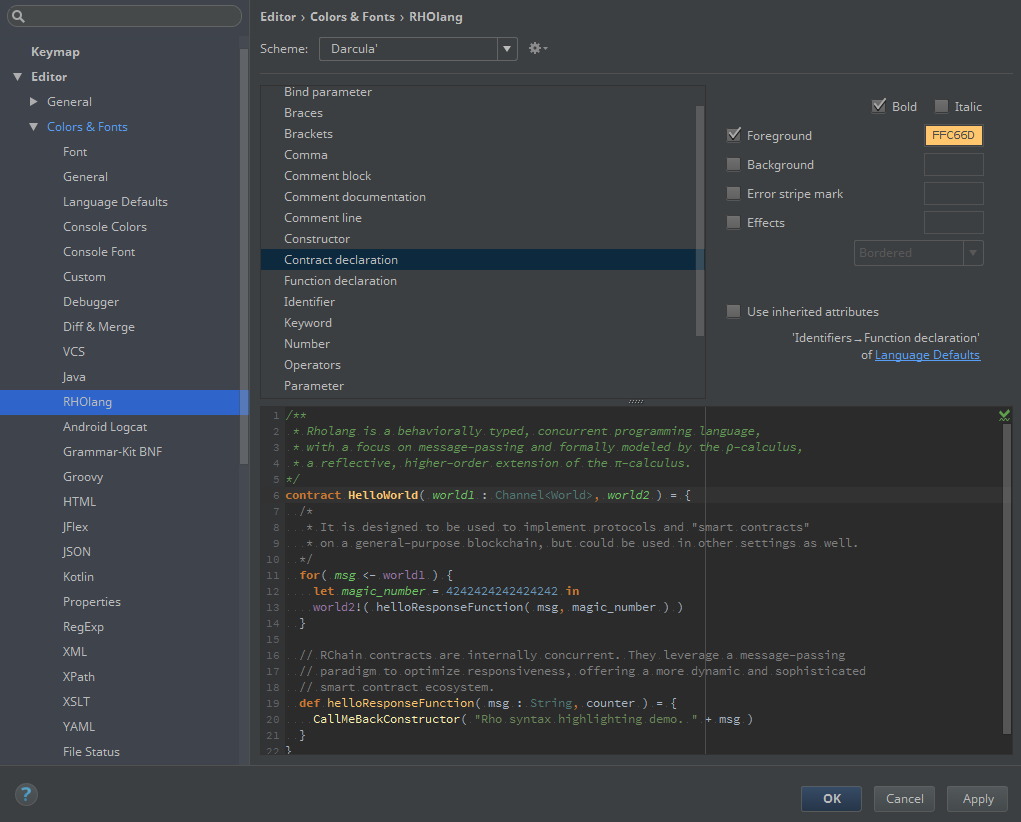
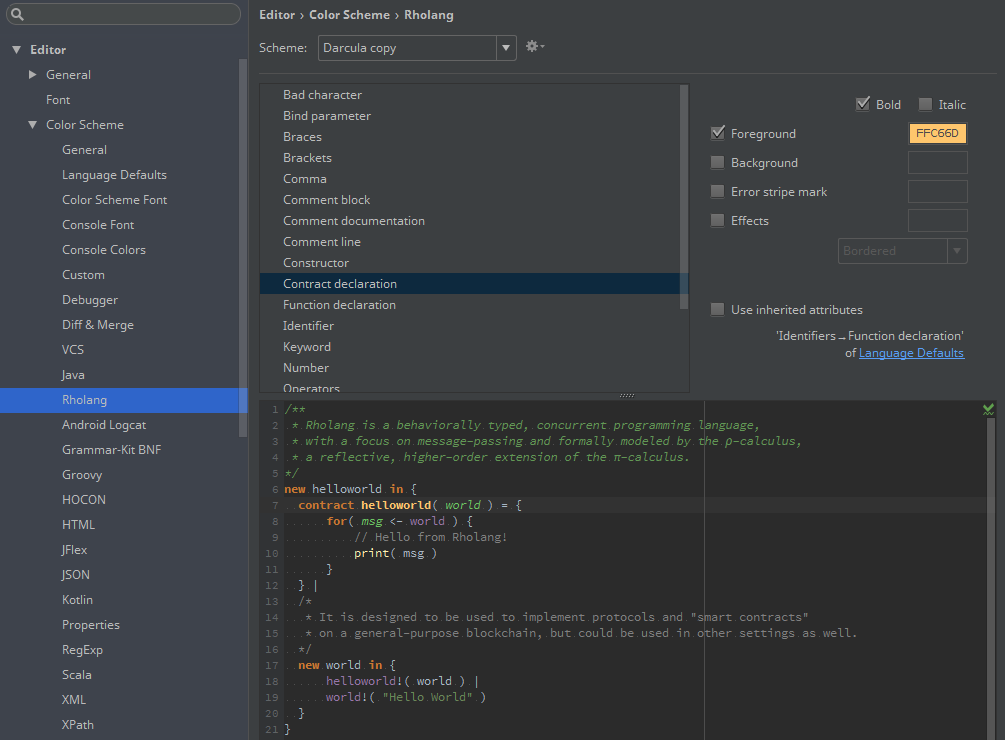
Version 0.0.3
Update ReadMe, new Rho icon, new setting demo template

diff --git a/src/coop/rchain/lang/RhoColorSettingsPage.kt b/src/coop/rchain/lang/RhoColorSettingsPage.kt
@@ -17,21 +17,20 @@ class RhoColorSettingsPage : ColorSettingsPage, InspectionColorSettingsPage, Dis
  * with a focus on message-passing and formally modeled by the ρ-calculus,
  * a reflective, higher-order extension of the π-calculus.
 */
-contract <CONTRACT>HelloWorld</CONTRACT>( <BIND_PARAMETER>world1</BIND_PARAMETER> : <TYPE_PARAMETER>Channel<World></TYPE_PARAMETER>, <BIND_PARAMETER>world2</BIND_PARAMETER> ) = {
+new helloworld in {
+  contract <CONTRACT>helloworld</CONTRACT>( <BIND_PARAMETER>world</BIND_PARAMETER> ) = {
+      for( <BIND_PARAMETER>msg</BIND_PARAMETER> <- <PARAMETER>world</PARAMETER> ) {
+          // Hello from Rholang!
+          <CONSTRUCTOR>print</CONSTRUCTOR>( msg )
+      }
+  } |
   /*
    * It is designed to be used to implement protocols and "smart contracts"
    * on a general-purpose blockchain, but could be used in other settings as well.
   */
-  for( <BIND_PARAMETER>msg</BIND_PARAMETER> <- <PARAMETER>world1</PARAMETER> ) {
-    let <BIND_PARAMETER>magic_number</BIND_PARAMETER> = 4242424242424242 in
-    <PARAMETER>world2</PARAMETER>!( helloResponseFunction( msg, magic_number ) )
-  }
-
-  // RChain contracts are internally concurrent. They leverage a message-passing
-  // paradigm to optimize responsiveness, offering a more dynamic and sophisticated
-  // smart contract ecosystem.
-  def <FUNCTION>helloResponseFunction</FUNCTION>( msg : <TYPE_PARAMETER>String</TYPE_PARAMETER>, counter ) = {
-    <CONSTRUCTOR>CallMeBackConstructor</CONSTRUCTOR>( "Rho syntax highlighting demo. " + msg )
+  new world in {
+      <PARAMETER>helloworld</PARAMETER>!( world ) |
+      <PARAMETER>world</PARAMETER>!( "Hello World" )
   }
 }
 """

diff --git a/src/coop/rchain/lang/RhoIcons.kt b/src/coop/rchain/lang/RhoIcons.kt
@@ -3,8 +3,7 @@ package coop.rchain.lang
 import com.intellij.openapi.util.IconLoader
 
 object RhoIcons {
-  val BLACK_EDITION = IconLoader.getIcon("/coop/rchain/lang/icons/rholang_black.png")
-  val RED_EDITION = IconLoader.getIcon("/coop/rchain/lang/icons/rholang_red.png")
+  val BLACK_EDITION = IconLoader.getIcon("/coop/rchain/lang/icons/rholang-black-16.png")
 
   val DEFAULT = BLACK_EDITION
 }

diff --git a/README.md b/README.md
@@ -1,16 +1,20 @@
-# [Rholang][rho-github] IntelliJ IDEA language plugin
+# Rholang IntelliJ IDEA language plugin
 
 ![beta][beta-badge]
 
 This is the early stage of editor support for [Rholang][rho-github]. :smile:
 
-Rholang is official language for [RChain][rchain-coop] distributed virtual machine. Is is currently in active development and syntax can slightly change. Current version of plugin follows this version of [Rho grammar][rho-bnf] and available examples.
+For now, it has only support for syntax highlighting. I tried to make parser more forgiving so it can highlight wider range of correct programs. With more context information from compiler it could be much more precise.
 
-I tried to make parser more forgiving so it can highlight wider range of correct programs. With more context information it could be much more precise. For now this will not recognize `*my_chan.ref[index]!(my_val)` although I'm not sure whether this is a valid syntax.
+> **Rholang** is a fully featured, general purpose, Turing-complete programming language built from the rho-calculus. It is a behaviorally typed, **r**-eflective, **h**-igher **o**-rder process language and the official smart contracting language of [RChain][rchain-coop]. Its purpose is to concretize fine-grained, programmatic concurrency. [RChain Architecture][arch-rholang]
 
-I found interesting that many grammar rules have a strong gravity towards `Proc`ess :cyclone: but that should not be strange for π-calculus, _λ-expression_ is not the main _actor_ here. Which reminds me that Rholang can be interesting to Erlang/Elixir programmers who knows how hard is to coordinate the names of processes. With _reflective higher-order_ super powers that comes with the compiler and type checker it will be pleasure to write smart contracts.
+Rholang is currently in active development and syntax can slightly change. Current version of plugin follows this version of [Rho grammar][rho-bnf-origin] and available examples.
 
-> The π-calculus is elegantly simple, it has very few terms and so is a very small language, yet is very expressive. Functional programs can be encoded into the π-calculus, and the encoding emphasises the dialogue nature of computation, drawing connections with game semantics. [Wikipedia][pi-wiki]
+I found interesting that many grammar rules have a strong gravity towards `Proc`ess :cyclone: but that should not be strange for π-calculus, _λ-expression_ is not the main _actor_ here. [Mobile process calculi for programming the new blockchain][tuplespaces-to-picalculus]
+
+Programmers in concurrent languages such as Erlang/Elixir say that one of the hardest problems is to coordinate the names (locations) of processes. It seems that Rholang with [Namespace logic][arch-namespace-logic] looks like a great solution for coordination of resources.
+
+With all this sweet superpowers, that comes with the Rholang compiler and type checker, it will be a pleasure to write smart contracts. :lollipop:
 
 ## Configure custom colors on the settings page
 
@@ -20,29 +24,34 @@ Only colors for _Constructor_ and _Bind parameter_ have no default values.
 
 ## Install
 
-From IntelliJ IDEA [plugins repository][rho-idea] searchable inside the editor.
+From [JetBrains Plugins Repository][rho-idea-plugin] searchable inside the editor.
 
-Or download **rholang-idea.jar** from the latest [release][releases] and install through [File > Settings > Plugins][idea-install-from-disk] menu.
+Or download **rholang-idea.jar** from the [latest release][releases] and install through [File > Settings > Plugins][idea-install-from-disk] menu.
 
 ## [Contributing](./CONTRIBUTING.md)
 
-Any suggestions, bugs, testing, pull-requests, issues are very welcome.
+Any feedback, suggestions, bugs, testing, pull-requests, issues are very welcome. :smile:
 
 ### Development
 
 - setup [IntelliJ dev-plugin prerequisites][idea-dev-setup]
-- open repo in editor
+- open repo in the editor
 - generate Java parser from `Rho.bnf` through the file context menu [Generate Parser Code][idea-gen-parser]
 - generate Java lexer from `Rho.flex` through the file context menu [Run JFlex Generator][idea-gen-lexer]
 - create new Plugin Run configuration with default setup
 - run/debug in a separate editor
 
+### Deployment
+
+- generate _jar_ file through the project root context menu [Prepare Plugin Module ... For Deployment][idea-deploy]
+- upload _jar_ to [JetBrains Plugins Repository][rho-idea-plugin] 
+
 ### TODO
 
 - write Formatter
-- write Completion Contributor
-- write Reference Contributor
-- plugin actions
+- write [Completion Contributor][idea-completion]
+- write [Reference Contributor][idea-reference]
+- add [plugin actions][idea-plugin-actions]
 - connect with the compiler (get semantic info)
 - ...
 
@@ -52,15 +61,21 @@ Any suggestions, bugs, testing, pull-requests, issues are very welcome.
 
 [releases]: https://github.com/tgrospic/rholang-idea/releases
 [rchain-coop]: https://www.rchain.coop
-[rho-github]: https://github.com/rchain/Rholang
-[rho-bnf]: https://github.com/rchain/Rholang/blob/28563311d6ea535ee8ddb425a25152dbf801e89b/src/main/bnfc/rholang.cf
-[rho-idea]: https://plugins.jetbrains.com/plugin/9833-rholang
-[pi-wiki]: https://en.wikipedia.org/wiki/%CE%A0-calculus
+[rho-github]: https://github.com/rchain/rchain/tree/master/rholang
+[rho-bnf-origin]: https://github.com/rchain/rchain/blob/e1b77e7b942e8f1bc98d1e5fe7705f51c2e9440d/rholang/src/main/bnfc/rholang.cf
+[rho-idea-plugin]: https://plugins.jetbrains.com/plugin/9833-rholang
+[arch-rholang]: http://rchain-architecture.readthedocs.io/en/latest/contracts/contract-design.html#rholang-a-concurrent-language
+[arch-namespace-logic]: http://rchain-architecture.readthedocs.io/en/latest/contracts/namespaces.html#namespace-logic
+[tuplespaces-to-picalculus]: http://mobile-process-calculi-for-programming-the-new-blockchain.readthedocs.io/en/latest/actors-tuples-and-pi.html#from-tuplespaces-to-calculus
 
 [idea-dev-setup]: http://www.jetbrains.org/intellij/sdk/docs/tutorials/custom_language_support/prerequisites.html
 [idea-gen-parser]: http://www.jetbrains.org/intellij/sdk/docs/tutorials/custom_language_support/grammar_and_parser.html#generate-a-parser
 [idea-gen-lexer]: http://www.jetbrains.org/intellij/sdk/docs/tutorials/custom_language_support/lexer_and_parser_definition.html#generate-a-lexer-class
-[idea-install-from-disk]: https://stackoverflow.com/documentation/intellij-idea/8069/how-to-install-plugins/26027/to-install-a-plugin-from-the-disk#t=201707092022357747782
+[idea-deploy]: https://www.jetbrains.com/help/idea/preparing-plugins-for-publishing.html
+[idea-install-from-disk]: https://www.jetbrains.com/help/idea/installing-a-plugin-from-the-disk.html
+[idea-completion]: https://www.jetbrains.org/intellij/sdk/docs/tutorials/custom_language_support/completion_contributor.html
+[idea-reference]: https://www.jetbrains.org/intellij/sdk/docs/tutorials/custom_language_support/reference_contributor.html
+[idea-plugin-actions]: https://www.jetbrains.org/intellij/sdk/docs/basics/action_system.html
 
 [beta-badge]: https://cdn.rawgit.com/tgrospic/rholang-idea/master/docs/beta.svg
 [license]: https://github.com/tgrospic/rholang-idea/blob/master/LICENSE
